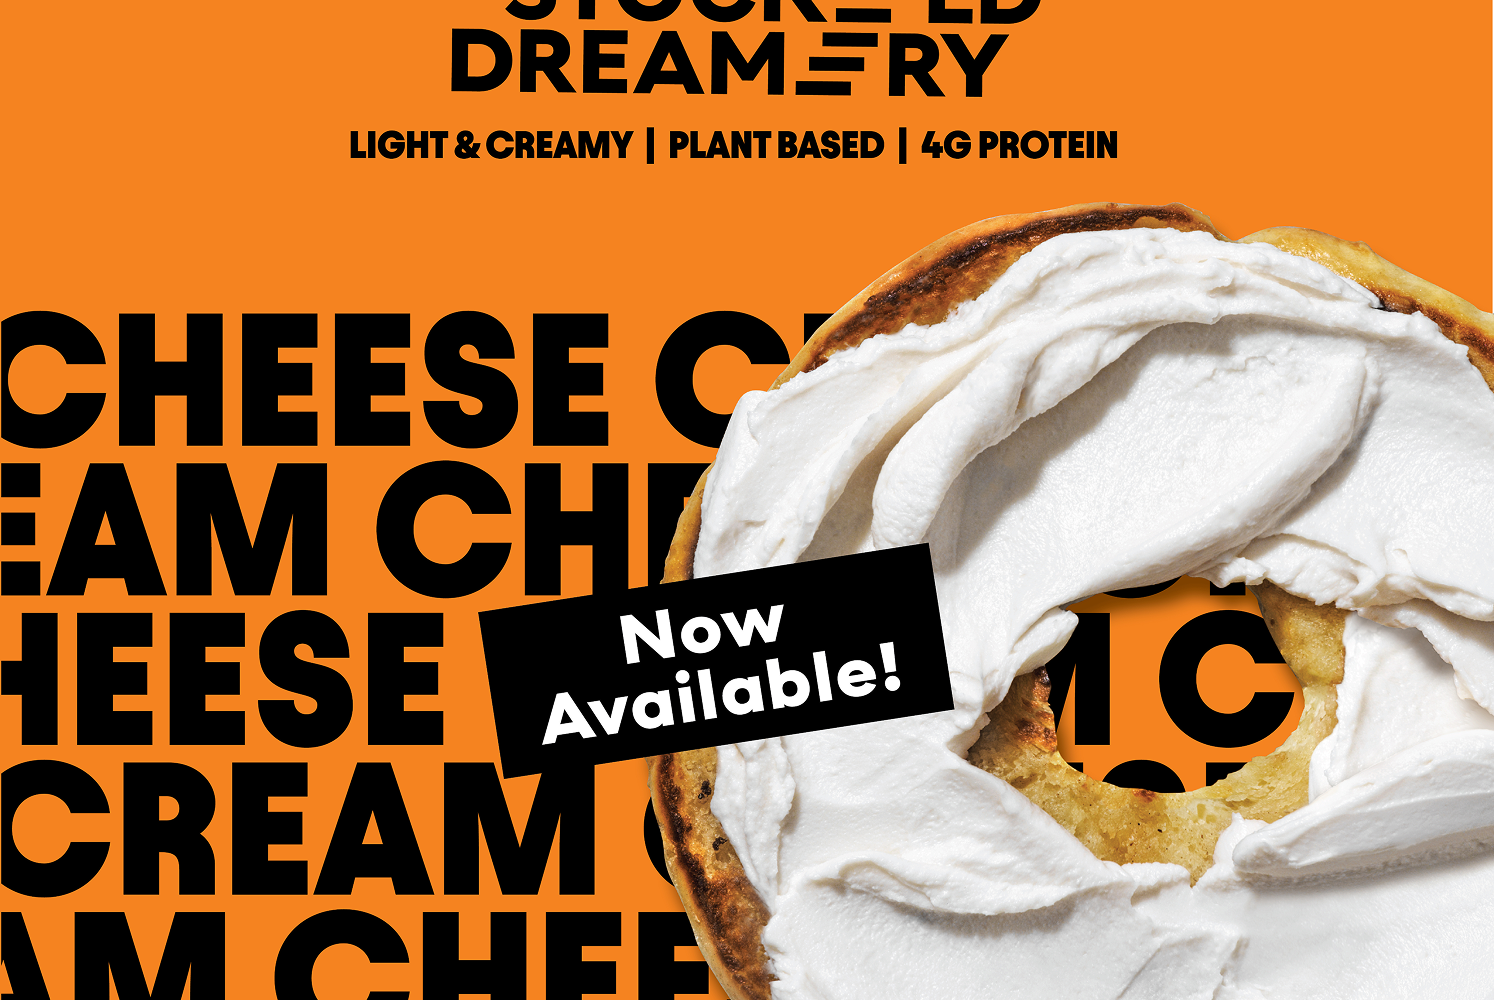
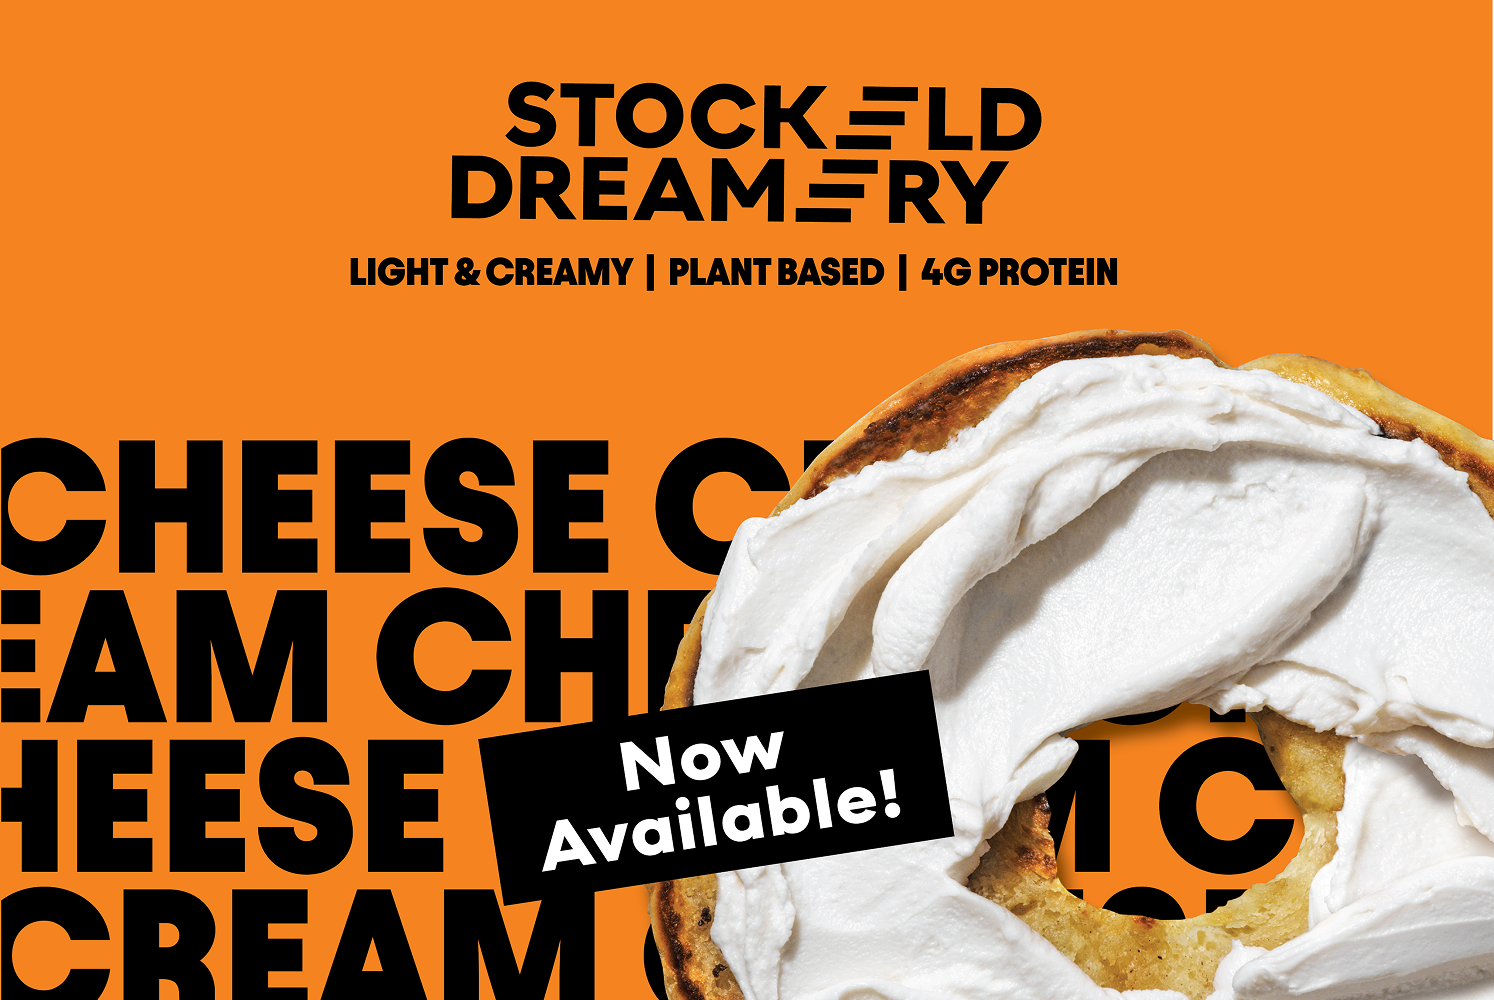
Latest

diff --git a/src/views/work/VersaceView.vue b/src/views/work/VersaceView.vue
@@ -14,11 +14,15 @@ import versaceLaptopMobile from '@/assets/img/versace-laptop-mobile-2x.png';
 import versaceScreenshotDesktop from '@/assets/img/versace-screenshot-desktop-2x.png';
 import versaceScreenshotMobile from '@/assets/img/versace-screenshot-mobile-2x.png';
 
+import versaceHimDesktop from '@/assets/img/versace-him-desktop-2x.png';
+import versaceTextDesktop from '@/assets/img/versace-text-desktop-2x.png';
+
 import versaceEmailsDesktop from '@/assets/img/versace-emails-desktop-2x.png';
 import versaceEmailsMobile from '@/assets/img/versace-emails-mobile-2x.png';
 
 import versaceEmailPhoneDesktop from '@/assets/img/versace-email-phone-desktop-2x.png';
 import versaceEmailPhoneMobile from '@/assets/img/versace-email-phone-mobile-2x.png';
+import ImageInline from '@/components/ImageInline.vue';
 </script>
 
 <template>
@@ -76,7 +80,20 @@ import versaceEmailPhoneMobile from '@/assets/img/versace-email-phone-mobile-2x.
       :mobile="versaceScreenshotMobile"
       alt="Versace Screenshot"
       className="mw-1440 mb-20"
-    />
+    >
+      <ImageBlock
+        :desktop="versaceHimDesktop"
+        alt="Versace Him"
+        className="versace-him-image"
+      />
+      <div class="overlay-content" ref="overlayText">
+        <ImageInline
+          :desktop="versaceTextDesktop"
+          alt="Versace Text"
+          className="versace-text"
+        />
+      </div>
+    </ImageBlock>
 
     <ImageBlock
       :desktop="versaceEmailsDesktop"
@@ -97,3 +114,29 @@ import versaceEmailPhoneMobile from '@/assets/img/versace-email-phone-mobile-2x.
 </template>
 
 <style lang="scss" src="@/styles/_workSingleGrid.scss"></style>
+
+<style lang="scss" scoped>
+.versace-him-image {
+  margin: 0 auto;
+  position: absolute;
+  top: 16.5%;
+  left: 17%;
+  z-index: 9999;
+
+  :deep(img) {
+    max-width: 318px;
+  }
+}
+
+.versace-text {
+  margin: 0 auto;
+  position: absolute;
+  top: 18.5%;
+  right: -10%;
+  z-index: 999;
+
+  :deep(img) {
+    max-width: 865px;
+  }
+}
+</style>

diff --git a/src/views/work/StockeldDreameryView.vue b/src/views/work/StockeldDreameryView.vue
@@ -103,18 +103,18 @@ onUnmounted(() => {
 
     <section class="projects">
       <div class="container">
-        <div class="work-single-grid">
+        <div class="work-single-grid cols-7">
           <ImageInline
             :desktop="stockeldBagelAdDesktop"
             :mobile="stockeldBagelAdMobile"
             alt=""
-            className="mb-20 span-2 bagel-custom-sizing"
+            className="mb-20 span-4 bagel-custom-sizing"
           />
           <ImageInline
             :desktop="stockeldFlyerDesktop"
             :mobile="stockeldFlyerMobile"
             alt=""
-            className="mb-20 flyer-custom-sizing"
+            className="mb-20 span-3 flyer-custom-sizing"
           />
         </div>
       </div>
@@ -141,20 +141,33 @@ onUnmounted(() => {
 <style lang="scss" src="@/styles/_workSingleGrid.scss"></style>
 
 <style lang="scss" scoped>
-:deep(.bagel-custom-sizing) {
-  width: 100%;
-  max-height: 500px;
-  img {
-    max-height: 500px;
-    width: 100%;
-  }
-}
-:deep(.flyer-custom-sizing) {
-  width: 100%;
-  height: 100%;
-  max-height: 500px;
-  img {
-    height: 100%;
+// :deep(.bagel-custom-sizing) {
+//   width: 100%;
+//   max-height: 500px;
+//   img {
+//     max-height: 500px;
+//     width: 100%;
+//   }
+// }
+// :deep(.flyer-custom-sizing) {
+//   width: 100%;
+//   height: 100%;
+//   max-height: 500px;
+//   img {
+//     height: 100%;
+//   }
+// }
+
+@media (min-width: $breakpoint-md) {
+  :deep(.flyer-custom-sizing),
+  :deep(.bagel-custom-sizing) {
+    max-height: 450px;
+    overflow-y: hidden;
+
+    img {
+      height: auto;
+      object-fit: cover;
+    }
   }
 }
 

diff --git a/src/views/work/PeterCooperVillageView.vue b/src/views/work/PeterCooperVillageView.vue
@@ -10,7 +10,7 @@ import heroPeterCooperDesktop from '@/assets/img/hero-peter-cooper-desktop-2x.pn
 import heroPeterCooperMobile from '@/assets/img/hero-peter-cooper-mobile-2x.png';
 
 import peterCooperBannersDesktop from '@/assets/img/peter-cooper-banners-desktop-2x.png';
-// import peterCooperBannersMobile from '@/assets/img/peter-cooper-banners-mobile-2x.png';
+import peterCooperBannersMobile from '@/assets/img/peter-cooper-banners-mobile-2x.png';
 
 import peterCooperGrassDesktop from '@/assets/img/peter-cooper-grass-desktop-2x.png';
 import peterCooperGrassMobile from '@/assets/img/peter-cooper-grass-mobile-2x.png';
@@ -50,8 +50,9 @@ import peterCooperFloorMobile from '@/assets/img/peter-cooper-floor-mobile-2x.pn
 
     <ImageBlock
       :desktop="peterCooperBannersDesktop"
+      :mobile="peterCooperBannersMobile"
       alt=""
-      className="mw-1300 mb-20"
+      className="full-width mb-20"
     />
 
     <ImageBlock

diff --git a/src/views/work/BananaRepublicView.vue b/src/views/work/BananaRepublicView.vue
@@ -11,6 +11,7 @@ import heroBananaRepublicDesktop from '@/assets/img/hero-banana-republic-desktop
 import heroBananaRepublicMobile from '@/assets/img/hero-banana-republic-mobile-2x.png';
 
 import bananaRepublicEmailsDesktop from '@/assets/img/banana-republic-emails-desktop-2x.png';
+import bananaRepublicEmailsMobile from '@/assets/img/banana-republic-emails-mobile-2x.png';
 
 import bananaRepublicImage1Desktop from '@/assets/img/banana-republic-image1-desktop-2x.png';
 import bananaRepublicImage1Mobile from '@/assets/img/banana-republic-image1-mobile-2x.png';
@@ -69,7 +70,7 @@ import bananaRepublicWoman3Mobile from '@/assets/img/banana-republic-woman3-mobi
 
     <ImageBlock
       :desktop="bananaRepublicEmailsDesktop"
-      :mobile="bananaRepublicEmailsDesktop"
+      :mobile="bananaRepublicEmailsMobile"
       alt=""
       className="full-width"
     />

diff --git a/src/views/work/WhiskyXView.vue b/src/views/work/WhiskyXView.vue
@@ -198,4 +198,20 @@ onUnmounted(() => {
     bottom: clamp(250px, 80vw, 600px);
   }
 }
+@media (max-width: $breakpoint-xs) {
+  .whisky-bottle {
+    width: clamp(80px, 12vw, 160px);
+    right: -200px;
+    bottom: clamp(
+      200px,
+      84vw,
+      500px
+    ); /* Adjusted to bring the bottle up higher */
+  }
+  .whisky-alabama-text {
+    width: clamp(200px, 40vw, 500px);
+    right: -100px;
+    bottom: clamp(250px, 105vw, 600px);
+  }
+}
 </style>

diff --git a/src/views/work/JeepView.vue b/src/views/work/JeepView.vue
@@ -241,7 +241,7 @@ onUnmounted(() => {
     }
     :deep(picture) {
       img {
-        padding-top: 0;
+        padding-top: 30px;
       }
     }
   }
